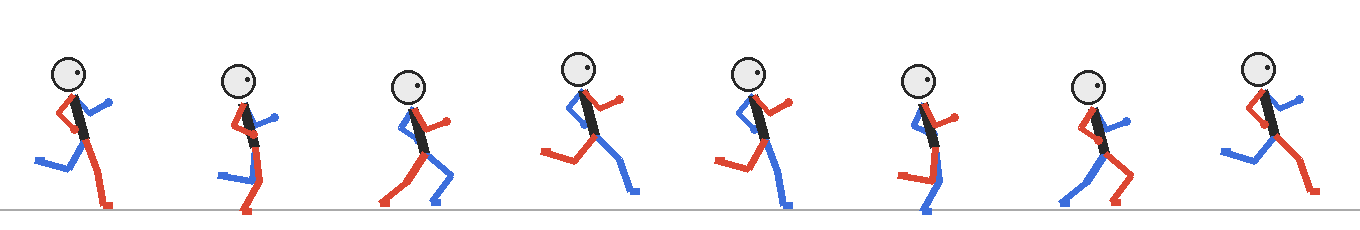
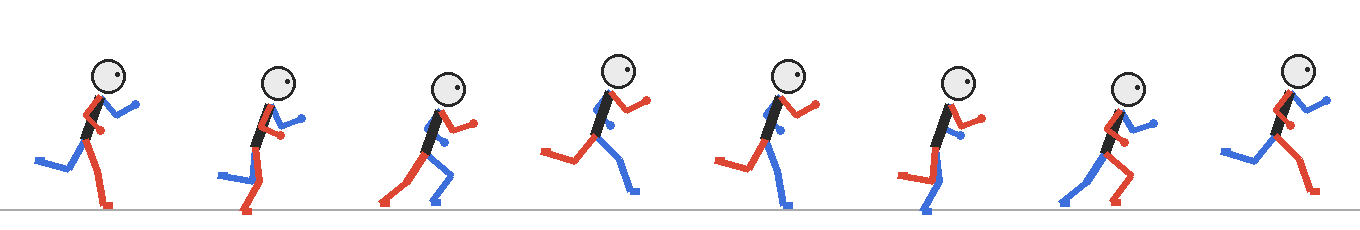
Khung xương: sửa thân nghiêng về trước (trước đây ngả ra sau), chạy nghiêng 20°
Claude-Session: https://claude.ai/code/session_017N7QXqfkK27mirk6Hvvt7g

diff --git a/docs/anh-goc/mau-tu-the/ve-khung-xuong.py b/docs/anh-goc/mau-tu-the/ve-khung-xuong.py
@@ -48,8 +48,8 @@ def khung(d, ox, nghieng, nhap, chan_gan, chan_xa, tay_gan, tay_xa, bay=0):
             thap = max(thap, y2)
         return thap
     hy = DAT - (day(0)) - bay
-    vai = diem(180 + nghieng, THAN, hx, hy)
-    dau = diem(180 + nghieng, THAN + 22, hx, hy)
+    vai = diem(180 - nghieng, THAN, hx, hy)
+    dau = diem(180 - nghieng, THAN + 22, hx, hy)
     # chi xa vẽ trước (nằm sau), chi gần vẽ sau
     ve_tay(d, vai, *tay_xa, XANH)
     ve_chi(d, (hx, hy), *chan_xa, XANH)
@@ -90,5 +90,5 @@ chay_nua = [
 chay = chay_nua + [(cx, cg, tx, tg, b) for (cg, cx, tg, tx, b) in chay_nua]
 
 if __name__ == '__main__':
-    ve('mau-di-bo-v2.png', di, 4)
-    ve('mau-chay-v2.png', chay, 14)
+    ve("mau-di-bo-v2.png", di, 3)
+    ve("mau-chay-v2.png", chay, 20)
